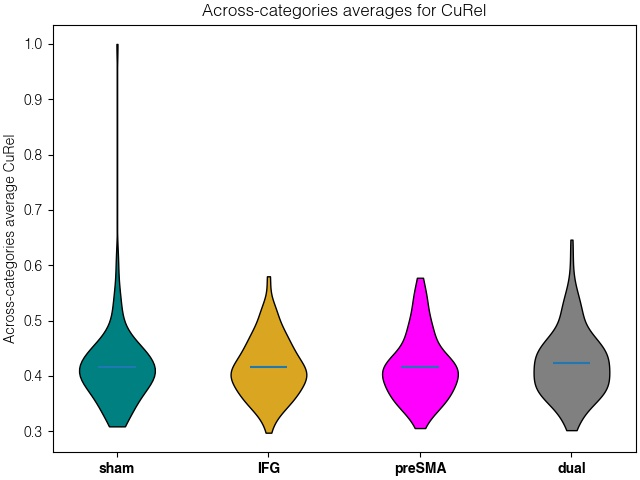
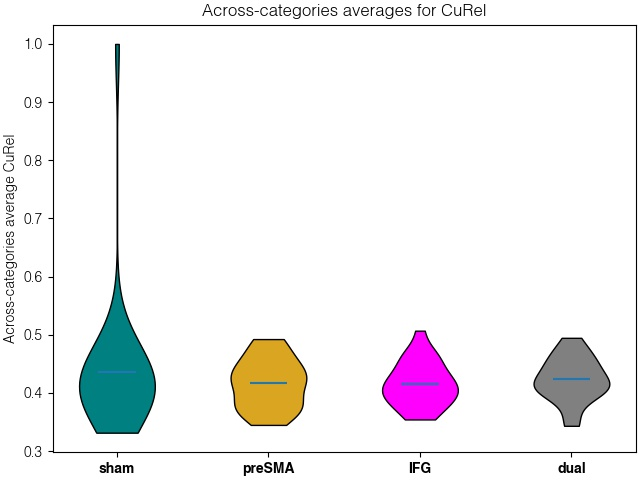
uploaded plots

diff --git a/analysis.py b/analysis.py
@@ -110,7 +110,7 @@ for metric, results in [('CuRel', curels), ('SeqRel', seqrels), ('Switches', swi
     fig, ax = pyplot.subplots(constrained_layout=True)
     title = 'Across-categories averages for {}'.format(metric)
     xs = list(results.keys())
-    ys = [[val for v in results[k].values() for val in v] for k in xs]
+    ys = [[numpy.nanmean(v) for v in results[k].values()] for k in xs]
     parts = ax.violinplot(ys, positions=range(len(ys)), showmeans=True, showextrema=False,)
     ax.set_xticks(range(len(xs)))
     ax.set_xticklabels(xs, fontweight='bold')
